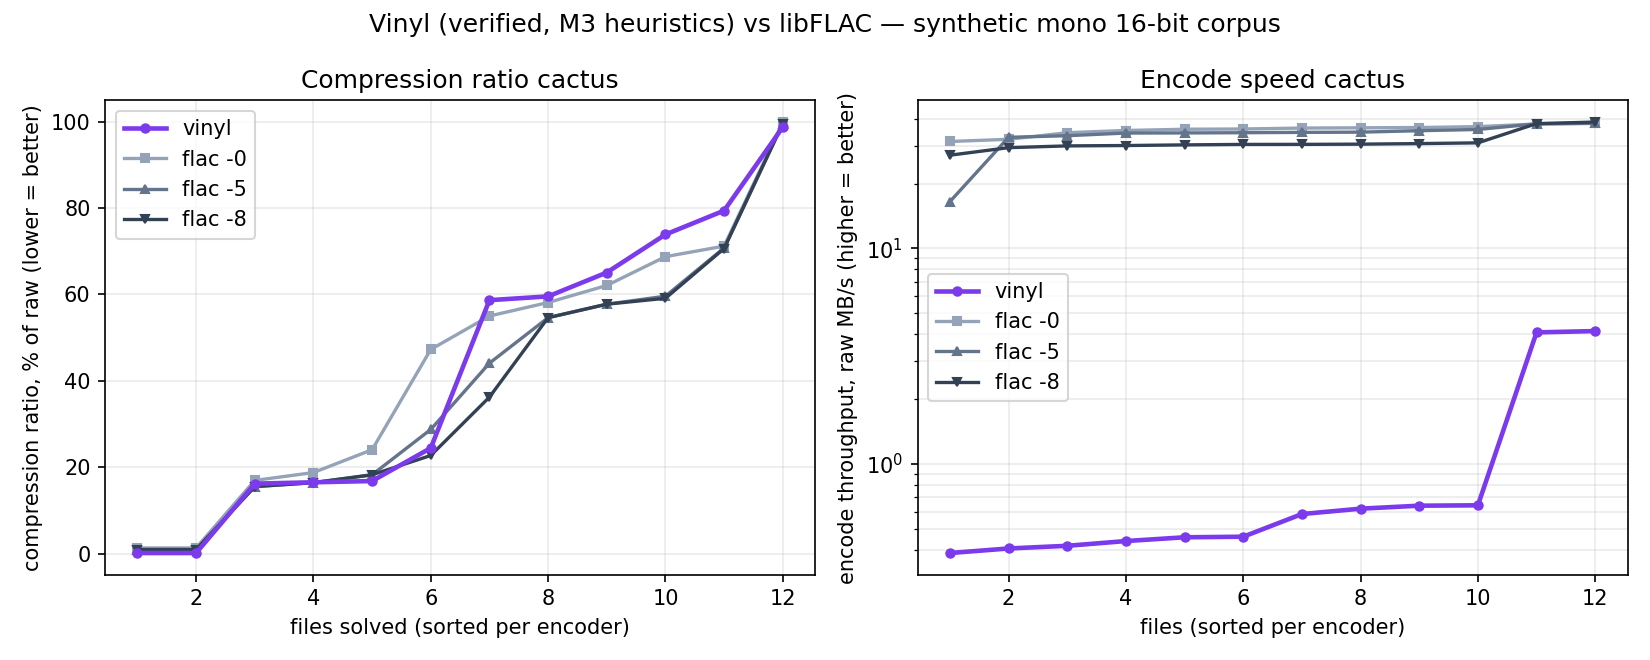
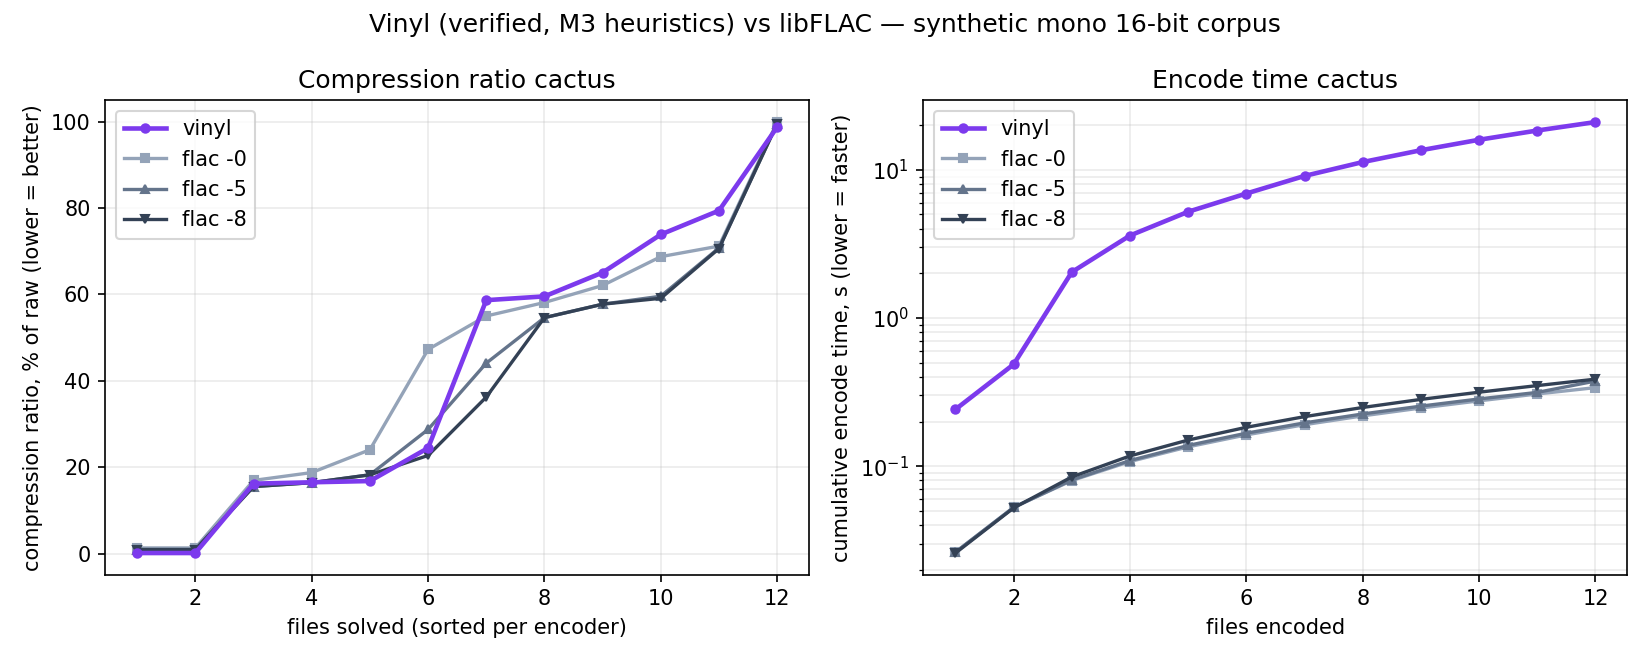
Bench: right panel as classic cumulative-time cactus + reading guide in README

diff --git a/bench/plot.py b/bench/plot.py
@@ -14,7 +14,7 @@ results_csv = sys.argv[1] if len(sys.argv) > 1 else "bench/results.csv"
 out_png = sys.argv[2] if len(sys.argv) > 2 else "bench/cactus.png"
 
 ratio = defaultdict(list)      # encoder -> [encoded/raw]
-speed = defaultdict(list)      # encoder -> [raw MB/s]
+times = defaultdict(list)      # encoder -> [seconds per file]
 with open(results_csv) as f:
     for row in csv.DictReader(f):
         enc = row["encoder"]
@@ -22,7 +22,7 @@ with open(results_csv) as f:
         if raw == 0:
             continue
         ratio[enc].append(int(row["bytes"]) / raw)
-        speed[enc].append(raw / 1e6 / float(row["seconds"]))
+        times[enc].append(float(row["seconds"]))
 
 STYLE = {
     "vinyl":   dict(color="#7c3aed", marker="o", lw=2.2, zorder=5),
@@ -45,15 +45,22 @@ ax1.set_title("Compression ratio cactus")
 ax1.grid(alpha=0.25)
 ax1.legend()
 
+# classic cactus: x = files completed, y = cumulative encode time.
+# A curve that stays lower/reaches further right = faster encoder.
 for enc in STYLE:
-    if enc not in speed:
+    if enc not in times:
         continue
-    ys = sorted(speed[enc])
-    ax2.plot(range(1, len(ys) + 1), ys, label=enc, ms=4, **STYLE[enc])
-ax2.set_xlabel("files (sorted per encoder)")
-ax2.set_ylabel("encode throughput, raw MB/s (higher = better)")
+    cum = 0.0
+    xs, ys = [], []
+    for i, t in enumerate(sorted(times[enc]), start=1):
+        cum += t
+        xs.append(i)
+        ys.append(cum)
+    ax2.plot(xs, ys, label=enc, ms=4, **STYLE[enc])
+ax2.set_xlabel("files encoded")
+ax2.set_ylabel("cumulative encode time, s (lower = faster)")
 ax2.set_yscale("log")
-ax2.set_title("Encode speed cactus")
+ax2.set_title("Encode time cactus")
 ax2.grid(alpha=0.25, which="both")
 ax2.legend()
 

diff --git a/README.md b/README.md
@@ -55,9 +55,12 @@ byte-identically with libFLAC (`conformance/smoke.sh`).
 
 ## Benchmarks
 
-Cactus plots (per-encoder sorted curves, SAT-solver style) on the
-synthetic mono 16-bit corpus of `bench/gen_corpus.py`, against libFLAC
-1.5.0 — regenerate with `./bench/run.sh`:
+Cactus plots on the synthetic mono 16-bit corpus of `bench/gen_corpus.py`,
+against libFLAC 1.5.0 — regenerate with `./bench/run.sh`. **Left** —
+compression: each encoder's per-file ratios sorted ascending; a curve that
+stays lower compresses better. **Right** — speed: cumulative encode time
+(log scale) after finishing its `n` fastest files; a curve that stays lower
+is faster:
 
 ![Compression and speed vs libFLAC](bench/cactus.png)
 
